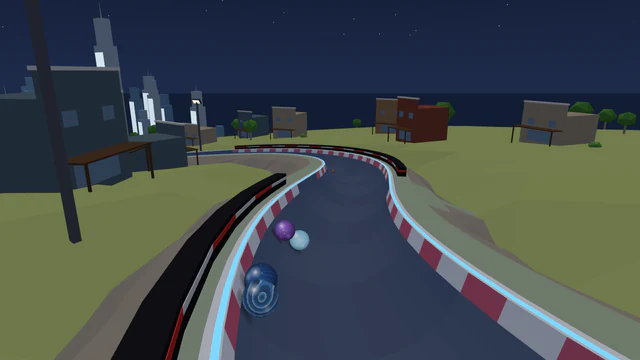
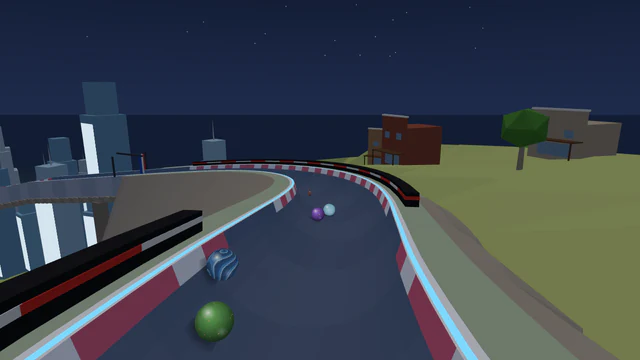
Tokyo Night Street Race: the loop replaced by the Expressway spiral and the Overpass splitter (Wild 37)
With the loop it had 62 overtakes (65 asked of loop tracks) and came closest
to Nevada Drag Strip (0.75). Now a full banked spiral round a lit tower,
passing under itself, the Overpass splitter (balanced: wedge tip -1.2 m),
a steeper Neon drop and an Off-ramp drop. Full report 53/53: winner 54.8 s,
gap 14.4 s, last 78.2 s, 62 overtakes; closest layout 0.64. Its two data
updates (2027-06-19-…) edited in place: they have not run on the server.

Claude-Session: https://claude.ai/code/session_011vSSkqNPL9kncfzrwF15wS

diff --git a/src/tracks/tokyo-night-street-race.js b/src/tracks/tokyo-night-street-race.js
@@ -2,26 +2,28 @@
 
 // Tokyo Night Street Race (Moses, 12 Nov 2026: eleven new motorsport Grand Prix tracks, the second of four Wild
 // ones). A street race through Tokyo at night among the lit towers: the start plunge into the Station chicane, the
-// Shopping street, up onto the elevated expressway and round the Expressway loop (the big
-// feature, the signature, the lit towers behind it), the Bay S-bends straight after it, the Tower hairpin, down the
-// Neon drop and round the harbour to the line. Generic racing pieces only: no real circuit, series, team or sponsor.
+// Shopping street, round the Expressway spiral (the big feature, the signature: a full banked turn down round a lit
+// tower, passing under itself like a city interchange), either side of the monument at the Overpass splitter, the Bay
+// S-bends, the Tower hairpin, down the Neon drop and round the harbour to the line. (13 Nov 2026, Moses: the loop
+// replaced by the spiral; with the loop it fell short of 65 overtakes and looked too like Nevada Drag Strip's.)
+// Generic racing pieces only: no real circuit, series, team or sponsor.
 const {
-  track, opening, straight, plunge, sBends, sweep, hairpin, runIn, slalom, rumble, curtain, loop,
+  track, opening, straight, plunge, sBends, sweep, spiral, splitter, hairpin, runIn, peg, slalom, rumble, curtain,
 } = require('../trackKit');
 
 module.exports = track({
   slug: 'tokyo-night-street-race',
   name: 'Tokyo Night Street Race',
   difficulty: 'hard',
-  description: 'A street race through Tokyo at night among the lit towers: through the station chicane and the shopping street, up onto the elevated expressway and round a loop with the towers behind it, through the bay S-bends, round the tower hairpin and down past the harbour to the line.',
+  description: 'A street race through Tokyo at night among the lit towers: through the station chicane and the shopping street, down the banked expressway spiral round a lit tower and under itself, either side of the monument at the overpass, through the bay S-bends, round the tower hairpin and down past the harbour to the line.',
   surface: 'asphalt',
   biome: 'city',
   lighting: 'night',
   grandPrix: { crowd: 'fans', barrier: 'tyres', groupsEvery: 900 },
-  signature: 'Expressway loop',
+  signature: 'Expressway spiral',
   tvCameras: [
-    // (Out of the loop on the expressway, looking back at the field coming round it, the towers behind.)
-    { section: 'Expressway loop', at: 0.75, side: 'right', distance: 9, height: 10 },
+    // (Where the field passes under the expressway's first deck, looking back up the spiral at it coming round.)
+    { section: 'Expressway spiral', at: 0.85, side: 'right', distance: 9, height: 10 },
   ],
   start: { landmark: 'city-hall', gate: 'trapdoor', shots: { countdown: 'low-front', launch: 'overhead' } },
   finish: { landmark: 'pit-garages', scenery: ['grandstand'] },
@@ -33,31 +35,38 @@ module.exports = track({
   }),
   sections: [
     {
-      name: 'Shopping street', shape: straight(60, { grade: 0.15 }), scenery: ['shopfronts'],
-      obstacles: [slalom({ costume: 'traffic-cone', from: 0.2, to: 0.75, count: 4, loss: 0.25 })],
+      name: 'Shopping street', shape: straight(50, { grade: 0.15 }), scenery: ['shopfronts'],
+      obstacles: [curtain({ costume: 'banner-gantry', at: 0.25, side: 'left' }), peg({ costume: 'traffic-cone', at: 0.6, line: 'right' })],
     },
-    { name: 'Expressway loop', shape: straight(130, { grade: 0.12 }), features: [loop({ at: 0.25, viewSide: 20 })] }, // (no towers beside the loop: they stood between the follow camera and the loop)
+    { name: 'Expressway spiral', shape: spiral({ side: 'right', radius: 50, turns: 1, grade: 0.22 }), around: 'twisted-tower' },
     {
-      name: 'Bay S-bends', shape: sBends({ first: 'left', radius: 70, degrees: 85, grade: 0.16 }), billboards: 2, scenery: ['skyscrapers'],
+      name: 'Overpass splitter', shape: splitter({ side: 'left', degrees: 0, approach: 50, merge: 30, balance: { tipOffset: -1.2, left: { drag: 1.6, scrub: 1.6 }, right: { drag: 1.0, scrub: 1.0 } } }),
+      around: 'roundabout-monument', scenery: ['skyscrapers'],
+      obstacles: [peg({ costume: 'traffic-cone', at: 0.06, line: 'left' }), peg({ costume: 'traffic-cone', at: 0.14, line: 'right' }), peg({ costume: 'traffic-cone', at: 0.21, line: 'center' })],
+    },
+    { name: 'Off-ramp drop', shape: plunge(45, { grade: 0.36, from: 0.13 }), scenery: ['skyscrapers'] },
+    {
+      name: 'Bay S-bends', shape: sBends({ first: 'left', radius: 70, degrees: 85, grade: 0.18 }), billboards: 2, scenery: ['skyscrapers'],
       obstacles: [slalom({ costume: 'traffic-cone', from: 0.35, to: 0.7, count: 3, loss: 0.2 })],
     },
     {
-      name: 'Run to the hairpin', shape: straight(50, { grade: 0.12 }), billboards: 1,
+      name: 'Run to the hairpin', shape: straight(50, { grade: 0.14 }),
+      obstacles: [peg({ costume: 'traffic-cone', at: 0.3, line: 'center' })],
     },
     { name: 'Tower hairpin', shape: hairpin({ side: 'left' }), scenery: ['grandstand'] },
     {
-      name: 'Neon drop', shape: plunge(45, { grade: 0.24, from: 0.15 }), scenery: ['skyscrapers'],
+      name: 'Neon drop', shape: plunge(45, { grade: 0.38, from: 0.15 }), scenery: ['skyscrapers'],
     },
     {
-      name: 'Riverside straight', shape: straight(100, { grade: 0.13 }), scenery: ['skyscrapers'],
-      obstacles: [slalom({ costume: 'traffic-cone', from: 0.35, to: 0.6, count: 3, loss: 0.2 })],
+      name: 'Riverside straight', shape: straight(60, { grade: 0.16 }), scenery: ['skyscrapers'],
+      obstacles: [slalom({ costume: 'traffic-cone', from: 0.25, to: 0.7, count: 5, loss: 0.25 })],
     },
     {
-      name: 'Harbour sweep', shape: sweep({ side: 'right', radius: 80, degrees: 160, grade: 0.12 }), billboards: 1,
-      obstacles: [curtain({ costume: 'banner-gantry', at: 0.35, side: 'high' })],
+      name: 'Harbour sweep', shape: sweep({ side: 'right', radius: 80, degrees: 130, grade: 0.155 }), billboards: 1,
+      obstacles: [peg({ costume: 'traffic-cone', at: 0.15, line: 'center' }), curtain({ costume: 'banner-gantry', at: 0.4, side: 'high' })],
     },
     {
-      name: 'Home straight', shape: straight(90, { grade: 0.14 }), billboards: 2, scenery: ['grandstand'],
+      name: 'Home straight', shape: straight(65, { grade: 0.16 }), billboards: 2, scenery: ['grandstand'],
       features: [rumble({ from: 0.5, to: 0.85, count: 3 })],
     },
     { name: 'Finish', shape: runIn(), scenery: ['grandstand'] },

diff --git a/test/trackKit.test.js b/test/trackKit.test.js
@@ -757,7 +757,7 @@ const HIDDEN_KIT_TRACKS = [
   ['lombardy-parkland-circuit', '2027-06-16-add-lombardy-parkland-circuit.sql', 'Grand Prix track (motorsport: an old road circuit through the walled royal park of a Lombardy town at sunset, a chicane start, the pit lane splitter round the garages; in the Grand Prix pack; switched off until Moses has watched the preview).'],
   ['mexico-city-stadium-section', '2027-06-17-add-mexico-city-stadium-section.sql', 'Grand Prix track (motorsport: a city-park circuit in Mexico City at dusk under the jacarandas, a rolling start, the stadium section banked round a bowl packed with fans; in the Grand Prix pack; switched off until Moses has watched the preview).'],
   ['finland-forest-rally', '2027-06-18-add-finland-forest-rally.sql', 'Grand Prix track (motorsport: a gravel rally stage through the lake forests of Finland under the midnight sun, a rumble start, over a ridge crest and down the big Lake drop; in the Grand Prix pack; switched off until Moses has watched the preview).'],
-  ['tokyo-night-street-race', '2027-06-19-add-tokyo-night-street-race.sql', 'Grand Prix track (motorsport: a street race through Tokyo at night among the lit towers, a chicane start, the Expressway loop with the towers behind it; in the Grand Prix pack; switched off until Moses has watched the preview).'],
+  ['tokyo-night-street-race', '2027-06-19-add-tokyo-night-street-race.sql', 'Grand Prix track (motorsport: a street race through Tokyo at night among the lit towers, a chicane start, the Expressway spiral round a lit tower and the Overpass splitter; in the Grand Prix pack; switched off until Moses has watched the preview).'],
   ['sao-paulo-rain-circuit', '2027-06-20-add-sao-paulo-rain-circuit.sql', 'Grand Prix track (motorsport: a hilly old circuit in the south of São Paulo in a tropical downpour, a pipe drop, the long banked Lake curve and the Downhill plunge; in the Grand Prix pack; switched off until Moses has watched the preview).'],
   ['rocky-mountain-hill-run', '2027-06-21-add-rocky-mountain-hill-run.sql', 'Grand Prix track (motorsport: a hill run down the Rocky Mountains, a falls start, the Canyon drop and the long banked Switchback curve; in the Grand Prix pack; switched off until Moses has watched the preview).'],
   ['nevada-drag-strip', '2027-06-22-add-nevada-drag-strip.sql', 'Grand Prix track (motorsport: a desert drag strip in Nevada, the showpiece: start lights, a short rise, full-width speed pads like a second start, the long Drag strip half-pipe and the Desert loop; in the Grand Prix pack; switched off until Moses has watched the preview).'],

diff --git a/test/loop.test.js b/test/loop.test.js
@@ -44,7 +44,7 @@ test('the loop\'s proving track: the loop is its feature (the flyover\'s highlig
   assert.ok(t.physics.kit.tv.some((c) => c.section === 'The loop' && c.p > lp.at));
   // The only tracks with a loop: its proving track, Saint-Tropez and Pudong Marble Grand Prix (3 Nov 2026), and Nairobi
   // Marble Grand Prix's Expressway loop (its own layout, 7 Nov 2026).
-  assert.deepEqual(PHYSICS_TRACKS.filter((x) => x.physics?.features?.some((y) => y.type === 'loop')).map((x) => x.slug), [SLUG, 'nairobi-marble-grand-prix', 'saint-tropez', 'pudong-marble-grand-prix', 'tokyo-night-street-race', 'nevada-drag-strip']);
+  assert.deepEqual(PHYSICS_TRACKS.filter((x) => x.physics?.features?.some((y) => y.type === 'loop')).map((x) => x.slug), [SLUG, 'nairobi-marble-grand-prix', 'saint-tropez', 'pudong-marble-grand-prix', 'nevada-drag-strip']);
 });
 
 test('every marble goes round the loop at racing speed, and every one finishes', () => {

diff --git a/docs/06-decisions.md b/docs/06-decisions.md
@@ -11,6 +11,7 @@
 | 2026-11-12 | **Voxel Peaks moves from Blocks 1 to Blocks 2** (Moses, 13:34, asked for the Blocks 1 track that fits Blocks 2's look best, not a free one): data update `2027-06-13-voxel-peaks-to-blocks-2`, `BLOCKS_2` in `src/packs/list.js`. Blocks 2: 20 in the pack (Lisbon free besides); Blocks 1: 12 (Spawn Point and Magma Core free). It stays in the Blocks series and keeps its wildness (Easy). | Blocks 2 then has 20 and can go on sale first. Voxel Peaks (snowy cube mountains, a ridge, a cabin in the snow) is the one Blocks 1 track that is a natural landscape with no game motifs, the look of Series 2's mountain and ice tracks (Tre Cime, Rainier, Kinabalu, Svalbard); the rest of Blocks 1 is the game-world look (score walls, line clears, portals, a mine, a castle, floating islands). |
 | 2026-11-12 | **App Store product ids with underscores too** (Moses, 13:15): the App Store uses the same ids as Google Play, ours with _ instead of - (`coins_5000`, `holiday_pass_2026`, `trackpack_blocks_2`, `trackpack_blocks_2_coins`); the app asks for them so and the server turns them back (`src/payments` `storeProduct`). None had been created in App Store Connect yet. Our own ids (payments, the website, Stripe) keep their hyphens. (Apple's help page allows hyphens too; the point is one set of store ids.) | One id per product in both stores. |
 | 2026-11-12 | **Track packs: price and purchases** (Moses, 12:35). Every pack **$7.99**, in the player's own currency with VAT included, the price in one settings file (`client/src/shared/payments/trackPacks.json`) for campaigns. **Coins pay at most 25%** (1,990 coins + $5.99), never coins alone; the split shown at checkout. The real Track packs tab and pack pages from the approved mockup; a pack under 20 live tracks is Coming soon. Website: Stripe Checkout (test mode), the pack only from the signed webhook, once; Android: Google Play (`trackpack_<pack>`, kept); iPhone: App Store non-consumables. Refunds take the pack back (and the coins back; a chargeback keeps them). `TRACK_PACKS` stays off; Moses tests with `admins`. (Technical: two products per pack and store, with and without coins, so each store charges a fixed price; the apps set the coins aside before the store's sheet.) | One clear price for every pack; coins can help but never replace a real payment; the stores' own billing in the apps. |
+| 2026-11-13 | **Tokyo Night Street Race: the loop replaced** (Moses, 12:04, Claude's choice of his two options). With its Expressway loop it had 62 overtakes, under the 65 asked of loop tracks, and its layout came closest to Nevada Drag Strip (0.75). Now the **Expressway spiral** (a full banked turn round a lit tower, passing under itself) and the **Overpass splitter**, a steeper Neon drop and an Off-ramp drop: full report 53/53, Wild 37, closest layout 0.64. Its two data updates (`2027-06-19-…`) were edited in place: they had not run on the server. (There was no splitter before, despite "keep the splitter".) | A loop track needed 65+ overtakes, which more obstacles reached only at the cost of fairness; the spiral takes it off the loop rule and away from Nevada. |
 | 2026-11-13 | **The free set is 15, not 30** (Moses, by voice: "15 free now", Claude to pick the best 15 of the 30). One free track where the pack is nearest 20 (Grand Prix, World Tour, Canyons, Rivers, Peaks), two in the others (Coasters, Track and Field, Pinball, Arcade, Blocks: Spawn Point and Lisbon, so Blocks 2 stays at exactly 20); each series' landing-page track stays free; 7 Easy, 6 Wild, 2 Extreme. A new data update (`2027-06-23-free-set-of-15`), since `2027-06-11-…` has run. Locks nothing until `TRACK_PACKS` is on. **The website's free wording follows a switch** (`PACKS_LIVE` in `client/src/shared/packWording.js`, false): the Help answer, the landing page's free answer and the track pages keep "every track is free" until locking is on for everyone, then say 15 free tracks and track packs; the landing page draft v2 already says so. **The landing page draft v2** shows the track count as "over 100 tracks" ("hundreds of tracks" from 200) and the four series with the most tracks, then "View more tracks" to /tracks. Moses's plan: two packs on sale tomorrow (Blocks 2, Grand Prix), two or three more by mid next week. | A small free taste and fuller packs: Grand Prix reaches 20 with its motorsport tracks (no Atacama or Outback needed), Rivers 15, Canyons and Peaks 14. The texts never say a track is locked while it isn't. |
 | 2026-11-12 | **The free set is 30, not 45** (Moses, 10:06, after `claude/free-set-30-proposal.md`): 3 per series, a good sample of looks and places, mostly Easy and Wild, 2 Extreme in all (San Francisco, Grand Canyon Burst), each series' landing-page picture among them. A new data update (`2027-06-11-free-set-of-30`), since `2027-06-10-…` had already run on the live server. **The World Tour pack goes on sale last**, once its shared-layout tracks are re-laid. | Smaller free taste, bigger packs: 113 tracks in packs, 107 new tracks to bring every pack to 20. |
 | 2026-11-11 | **Wildness and track packs** (Moses, 22:19, after the proposal `claude/wildness-and-free-set-proposal.md`). **Wildness** (Easy / Wild / Extreme, "luck, not skill") replaces the difficulty word on every page: the proposal's weights (race chaos 60 by rank, features up to 40) and cut-offs (33, 47), from the full report's races (1,000 per track) rather than 60; new columns `wildness_score`, `wildness` (difficulty kept, not shown). Badges on track cards (teal / orange / magenta, always with the word) and the All / Easy / Wild / Extreme filter in the picker. **Packs:** one per series, Pinball and Arcade separate, Blocks as Blocks 1 and Blocks 2; a free set of 45 with most Extreme tracks kept in the packs. **Locking built behind `TRACK_PACKS`, off:** no track is locked for players until Moses says go; a host who owns a pack opens it to their friend room, as with the holiday pass. No prices or store products yet. (Technical: while locking is on, the public random pick keeps to free tracks.) | Players can't steer, so "difficulty" said nothing (it was "extreme" on 142 of 143 tracks); wildness tells them what kind of race to expect, and the packs give each series a free taste and a reason to come back, without selling anything yet. |

diff --git a/docs/README.md b/docs/README.md
@@ -16,7 +16,7 @@
 - **Payments:** Stripe on the website in **test mode** until Moses says otherwise; Google Play Billing and Apple in-app purchases built; coin packs and the Holiday Season pass (pre-sale from 28 Nov).
 - **Legal texts:** all four approved and in effect since 1 Nov 2026, no DRAFT banner.
 - **Leagues part 1: on for everyone** since 27 Oct (`LEAGUES=on`): the free League (3 tracks since 31 Oct) and League Night. **Part 2** (credits, the Pro League, the league marble) is on branch `leagues-pro`, behind `LEAGUES_PRO`, waiting for a review preview.
-- **Wildness and track packs (live since the 12 Nov deploy, `b5cc113debdb`):** every live track scored Easy / Wild / Extreme from 1,000 report races (64 / 57 / 22), the badge and the picker filter replacing difficulty; 11 packs (one per series, Pinball and Arcade separate, Blocks 1 and 2). **Free set: 15** (13 Nov 2026: one or two per series, 2 Extreme; data update `2027-06-23-free-set-of-15`, waiting for the next deploy, after `2027-06-11-free-set-of-30`, which has run; Grand Prix then has 20 in its pack once its motorsport tracks are switched on; the World Tour pack goes on sale last). The website keeps saying every track is free until `PACKS_LIVE` (`client/src/shared/packWording.js`) is set with `TRACK_PACKS=on`. **Voxel Peaks moves to Blocks 2** (`2027-06-13-voxel-peaks-to-blocks-2`, has run): Blocks 2 has 20 in its pack, the first complete pack; Blocks 1 has 13 with the free set of 15. **Motorsport Grand Prix tracks** (12 Nov 2026, overnight, one commit each, switched off, in the Grand Prix pack): Heartland Oval Speedway (Easy, 26), Lapland Ice Race (Easy, 29), Lombardy Parkland Circuit (Easy, 29), Mexico City Stadium Section (Easy, 32), Finland Forest Rally (Wild, 41), Tokyo Night Street Race (Wild, 34), São Paulo Rain Circuit (Wild, 35), Rocky Mountain Hill Run (Wild, 42), Nevada Drag Strip (Extreme, 63); Atacama Desert Rally and Outback Red Dirt Rally not built (with Sydney and Sahara back in the pack, Grand Prix has 20 without them). **Pack sales built 12 Nov** ($7.99, or 1,990 coins + $5.99; Stripe test mode, Google Play, App Store), waiting for a server deploy and the store products; sold only while `TRACK_PACKS` is on for the player. **Locking is behind `TRACK_PACKS`, off**: nothing locked. When on, only complete packs lock (today Blocks 2), and the picker shows My tracks / Locked.
+- **Wildness and track packs (live since the 12 Nov deploy, `b5cc113debdb`):** every live track scored Easy / Wild / Extreme from 1,000 report races (64 / 57 / 22), the badge and the picker filter replacing difficulty; 11 packs (one per series, Pinball and Arcade separate, Blocks 1 and 2). **Free set: 15** (13 Nov 2026: one or two per series, 2 Extreme; data update `2027-06-23-free-set-of-15`, waiting for the next deploy, after `2027-06-11-free-set-of-30`, which has run; Grand Prix then has 20 in its pack once its motorsport tracks are switched on; the World Tour pack goes on sale last). The website keeps saying every track is free until `PACKS_LIVE` (`client/src/shared/packWording.js`) is set with `TRACK_PACKS=on`. **Voxel Peaks moves to Blocks 2** (`2027-06-13-voxel-peaks-to-blocks-2`, has run): Blocks 2 has 20 in its pack, the first complete pack; Blocks 1 has 13 with the free set of 15. **Motorsport Grand Prix tracks** (12 Nov 2026, overnight, one commit each, switched off, in the Grand Prix pack): Heartland Oval Speedway (Easy, 26), Lapland Ice Race (Easy, 29), Lombardy Parkland Circuit (Easy, 29), Mexico City Stadium Section (Easy, 32), Finland Forest Rally (Wild, 41), Tokyo Night Street Race (Wild, 37; 13 Nov: the loop replaced by a banked spiral and a splitter), São Paulo Rain Circuit (Wild, 35), Rocky Mountain Hill Run (Wild, 42), Nevada Drag Strip (Extreme, 63); Atacama Desert Rally and Outback Red Dirt Rally not built (with Sydney and Sahara back in the pack, Grand Prix has 20 without them). **Pack sales built 12 Nov** ($7.99, or 1,990 coins + $5.99; Stripe test mode, Google Play, App Store), waiting for a server deploy and the store products; sold only while `TRACK_PACKS` is on for the player. **Locking is behind `TRACK_PACKS`, off**: nothing locked. When on, only complete packs lock (today Blocks 2), and the picker shows My tracks / Locked.
 - **Built, switched off:** push notifications (first app update, December), gift codes, the pass reminder emails, the guest deletion job (dry run), deleting replays over 30 days old (dry run until `REPLAY_TRIM=on`).
 - **This week (2–8 Nov):** the back office Dashboard and staff accounts; the finish apron on kit tracks; the loop and its first two tracks; the speed pad and bump sounds and a new sound balance (hits about 19 dB up behind a limiter, tunes 8 dB down); the app's countdown and hit-sound fix; the sameness check over every track and records reset on a new layout; eight Grand Prix tracks re-laid; the daily video order (17:00 and 23:00, Sundays also 09:00) with fresh on-screen text per video. Details: `claude/changelog/2026-W45.md` in the project.
 
